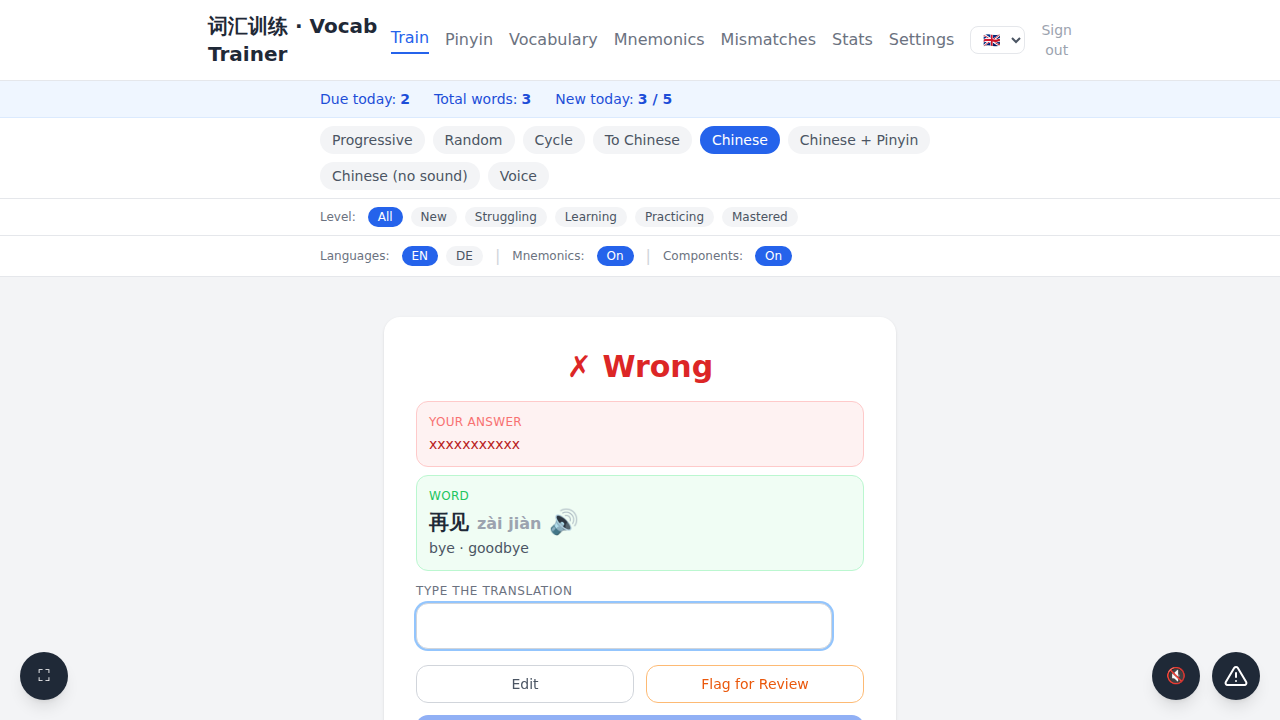
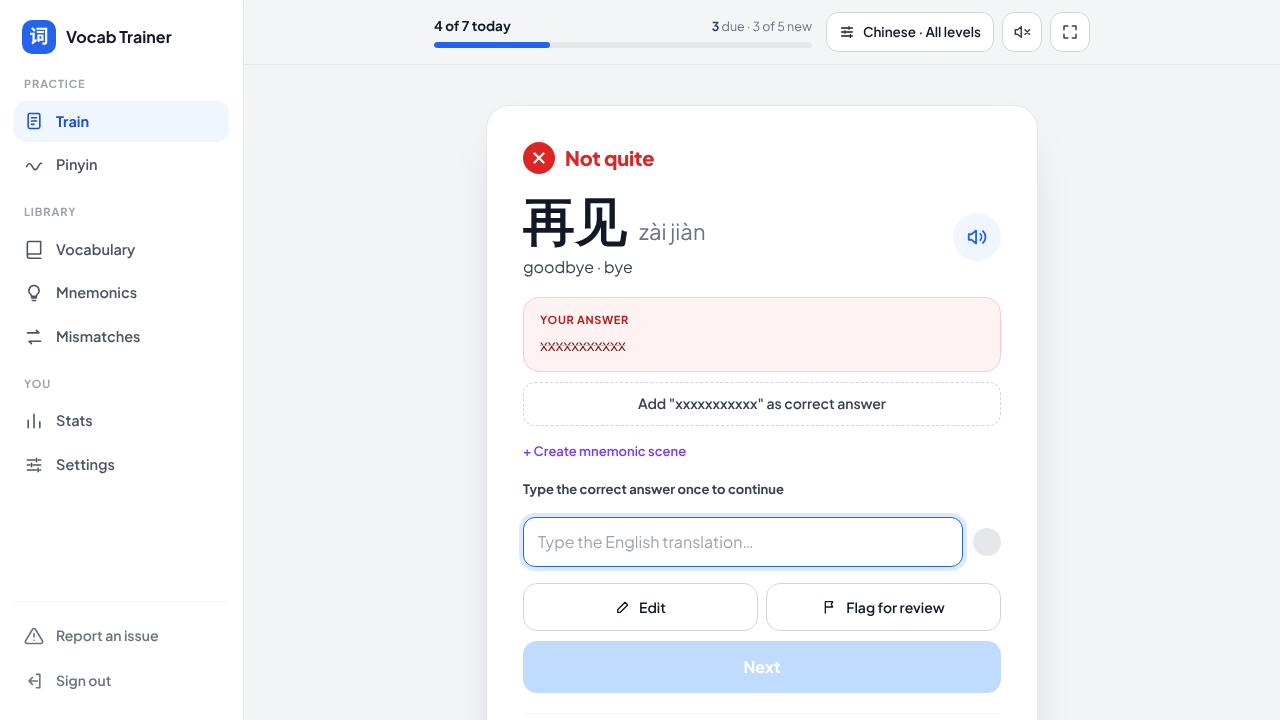
Show retype field hints as placeholders (#549)
The retype-on-wrong gate now puts "Type the Chinese…" and the
"Type the <language> translation…" text from #542 inside the inputs
instead of as labels above them.

Claude-Session: https://claude.ai/code/session_0169PKbCKpG1fpBBfipMrtzC

diff --git a/service/frontend/train-card.js b/service/frontend/train-card.js
@@ -443,20 +443,25 @@ async function loadNextCard(trackCurrent = false) {
 // Languages with a "Type the <language> translation…" placeholder (issue #542).
 const ANSWER_LANG_PLACEHOLDERS = ['en', 'de'];
 
+function translPlaceholderKey(answerLang) {
+  return ANSWER_LANG_PLACEHOLDERS.includes(answerLang) ? `card.placeholderTransl.${answerLang}` : 'card.placeholder';
+}
+
 function placeholderKeyForCard(cardType, mode, answerLang) {
   if (cardType === 'sentence') return 'card.placeholderSentence';
   if (!cardType && mode === 'transl_to_zh') return 'card.placeholderZh';
-  if ((!cardType || cardType === 'component') && ANSWER_LANG_PLACEHOLDERS.includes(answerLang)) {
-    return `card.placeholderTransl.${answerLang}`;
-  }
+  if (!cardType || cardType === 'component') return translPlaceholderKey(answerLang);
   return 'card.placeholder';
+}
+
+// Name the primary language if it is selected, else the first selected one.
+function currentAnswerLang() {
+  return orderLangsPrimaryFirst(selectedLangs, userPrimaryLang, userSecondaryLang)[0] || userPrimaryLang;
 }
 
 function showCard() {
   show('card-area');
-  // Name the primary language if it is selected, else the first selected one.
-  const answerLang = orderLangsPrimaryFirst(selectedLangs, userPrimaryLang, userSecondaryLang)[0] || userPrimaryLang;
-  $('answer-input').placeholder = t(placeholderKeyForCard(currentCard.card_type, currentCard.mode, answerLang));
+  $('answer-input').placeholder = t(placeholderKeyForCard(currentCard.card_type, currentCard.mode, currentAnswerLang()));
   // Prompt size: Hanzi prompts are larger, sentence prompts smaller.
   const promptEl = $('prompt-word');
   const zhPrompt = currentCard.card_type === 'component' ||

diff --git a/service/frontend/train-card.test.js b/service/frontend/train-card.test.js
@@ -9,14 +9,29 @@ import { describe, it, expect, vi, beforeEach, afterEach } from 'vitest';
 
 const ANSWER_LANG_PLACEHOLDERS = ['en', 'de'];
 
+function translPlaceholderKey(answerLang) {
+  return ANSWER_LANG_PLACEHOLDERS.includes(answerLang) ? `card.placeholderTransl.${answerLang}` : 'card.placeholder';
+}
+
 function placeholderKeyForCard(cardType, mode, answerLang) {
   if (cardType === 'sentence') return 'card.placeholderSentence';
   if (!cardType && mode === 'transl_to_zh') return 'card.placeholderZh';
-  if ((!cardType || cardType === 'component') && ANSWER_LANG_PLACEHOLDERS.includes(answerLang)) {
-    return `card.placeholderTransl.${answerLang}`;
-  }
+  if (!cardType || cardType === 'component') return translPlaceholderKey(answerLang);
   return 'card.placeholder';
 }
+
+// The retype-on-wrong meaning field uses the same text (issue #549).
+describe('translPlaceholderKey', () => {
+  it('names the answer language', () => {
+    expect(translPlaceholderKey('de')).toBe('card.placeholderTransl.de');
+    expect(translPlaceholderKey('en')).toBe('card.placeholderTransl.en');
+  });
+
+  it('falls back to the generic key for an unknown language', () => {
+    expect(translPlaceholderKey('fr')).toBe('card.placeholder');
+    expect(translPlaceholderKey(undefined)).toBe('card.placeholder');
+  });
+});
 
 describe('placeholderKeyForCard', () => {
   it('uses the sentence-specific placeholder key for sentence cards', () => {

diff --git a/service/frontend/train.html b/service/frontend/train.html
@@ -227,14 +227,12 @@
           <div id="wrong-retype-area" class="hidden tr-retype">
             <div class="tr-label" data-i18n="result.retypeTitle">Type the correct answer once to continue</div>
             <label id="wrong-retype-zh-group" class="tr-check-field">
-              <span class="tr-label-sm" data-i18n="newWord.typeZh">Type the Chinese</span>
               <span class="tr-check-row">
-                <input type="text" id="wrong-retype-zh-input" class="tr-input font-hanzi" autocomplete="off" spellcheck="false">
+                <input type="text" id="wrong-retype-zh-input" class="tr-input font-hanzi" autocomplete="off" spellcheck="false" placeholder="Type the Chinese…" data-i18n-placeholder="card.placeholderZh">
                 <span id="wrong-retype-zh-check" class="tr-check"></span>
               </span>
             </label>
             <label id="wrong-retype-trans-group" class="tr-check-field">
-              <span class="tr-label-sm" data-i18n="newWord.typeTrans">Type the meaning</span>
               <span class="tr-check-row">
                 <input type="text" id="wrong-retype-trans-input" class="tr-input" autocomplete="off">
                 <span id="wrong-retype-trans-check" class="tr-check"></span>

diff --git a/e2e/quiz.spec.js b/e2e/quiz.spec.js
@@ -1666,6 +1666,12 @@ test.describe('Quiz – retype on wrong answer', () => {
       await expect(page.locator('#wrong-retype-zh-group')).toBeVisible();
       await expect(page.locator('#wrong-retype-trans-group')).toBeVisible();
       await expect(page.locator('#next-btn')).toBeDisabled();
+      // Issue #549: the field hints sit inside the inputs as placeholders,
+      // not as labels above them. The meaning field names the answer language.
+      await expect(page.locator('#wrong-retype-zh-input')).toHaveAttribute('placeholder', 'Type the Chinese…');
+      await expect(page.locator('#wrong-retype-trans-input')).toHaveAttribute('placeholder', 'Type the English translation…');
+      await expect(page.locator('#wrong-retype-zh-group')).not.toContainText('Type the Chinese');
+      await expect(page.locator('#wrong-retype-trans-group')).not.toContainText('Type the meaning');
       await captureForPR(page, 'wrong-answer-retry-both-fields');
 
       // Typing a wrong word/translation must not unlock it.

diff --git a/service/frontend/app.css b/service/frontend/app.css
@@ -464,8 +464,7 @@ label.st-text { cursor: pointer; }
 .tr-check.is-ok { background: #16a34a; }
 .tr-check.is-bad { background: #f87171; }
 .tr-label { font-size: 13px; font-weight: 700; color: #374151; margin-bottom: 8px; }
-.tr-check-field .tr-label, .tr-check-field .tr-label-sm { margin-bottom: 0; }
-.tr-label-sm { font-size: 12.5px; font-weight: 600; color: #6b7280; }
+.tr-check-field .tr-label { margin-bottom: 0; }
 .tr-two-btns { margin-top: 22px; display: grid; grid-template-columns: 1fr 1.4fr; gap: 8px; }
 .tr-two-equal { grid-template-columns: 1fr 1fr; margin-top: 16px; }
 .tr-two-btns .ui-btn { min-height: 48px; border-radius: 14px; }

diff --git a/service/frontend/train-result.js b/service/frontend/train-result.js
@@ -366,6 +366,7 @@ function renderWordAnswerResult(result, answer) {
         wrongRetypeTarget = { zhText: result.zh_text, translations: mergeTranslationMaps(result.translations, result.translations_extra), requireZh, requireTrans };
         $('wrong-retype-zh-input').value = '';
         $('wrong-retype-trans-input').value = '';
+        $('wrong-retype-trans-input').placeholder = t(translPlaceholderKey(currentAnswerLang()));
         setCheckMark('wrong-retype-zh-check', '', false);
         setCheckMark('wrong-retype-trans-check', '', false);
         requireZh ? show('wrong-retype-zh-group') : hide('wrong-retype-zh-group');

diff --git a/README.md b/README.md
@@ -28,7 +28,7 @@ This is a self-hosted Chinese-English vocabulary trainer. It uses the SM-2 space
 - **Flexible answer matching.** Parenthesized segments are optional: `(das) Essen` accepts `Essen`. Fullwidth Chinese parentheses `（）` work the same way: `还（动词）` accepts `还`. Slash- or comma-separated alternatives are each valid: `Essen / Gericht` accepts `Essen` or `Gericht`, and `topic, item` accepts `topic` or `item`. Typing all slash-separated parts in any order also works: `Wohnzimmer / Schlafzimmer` accepts `Schlafzimmer / Wohnzimmer`. The same applies to mnemonic names on HMM cards.
 - **Wrong-answer review.** On a wrong answer, the app shows what you typed next to the correct Chinese text, pinyin, and translations. You can add your answer as an accepted translation with one click. In *Translation → Chinese* mode, the app also shows pinyin beside your typed Chinese answer, so you can see how it is pronounced. If you have two active learning languages (primary and secondary), a language picker lets you choose which language the new translation belongs to. The picker defaults to your primary language.
 - **Accept as correct.** If a wrong answer was a typo, click "Accept as correct" to restore your pre-answer SM-2 progress. The app then counts the attempt as correct, with no penalty. You can configure this behavior in Settings: never, on 1-character typos (the default), or always.
-- **Retype on wrong answer.** This optional 3-way setting is off by default, in Settings → Training Mode → Wrong Answer Retry: **Off** continues immediately; **Only what was tested** requires retyping only the field(s) the card's direction actually asked for (e.g. just the translation for a Chinese → translation card, just the Chinese word for a translation → Chinese card); **Chinese and translation** always requires both, regardless of direction. Whichever field(s) are required, the "Next" button stays disabled until they check out. The "Accept as correct" and "Add as translation" shortcuts stay available alongside the retype fields and, like "Next" when the gate is off, still advance straight to the next card when clicked — accepting the answer already confirms it, so no retype is required in that case. This mirrors the same required-retype pattern used for the new-word introduction screen.
+- **Retype on wrong answer.** This optional 3-way setting is off by default, in Settings → Training Mode → Wrong Answer Retry: **Off** continues immediately; **Only what was tested** requires retyping only the field(s) the card's direction actually asked for (e.g. just the translation for a Chinese → translation card, just the Chinese word for a translation → Chinese card); **Chinese and translation** always requires both, regardless of direction. Whichever field(s) are required, the "Next" button stays disabled until they check out. The fields show their hint inside the input ("Type the Chinese…", "Type the German translation…"), not as a label above it. The "Accept as correct" and "Add as translation" shortcuts stay available alongside the retype fields and, like "Next" when the gate is off, still advance straight to the next card when clicked — accepting the answer already confirms it, so no retype is required in that case. This mirrors the same required-retype pattern used for the new-word introduction screen.
 - **Training stats.** The app tracks daily progress: attempts, mistakes, accuracy, words known, new words learned, and your best correct streak. The `/stats` page shows a Chart.js bar or line chart of your full history, and a table of the last 14 days.
 - **Word-level statistics.** The `/stats` page has four tabs (Words, Pinyin, Components, Mnemonics). The Words tab starts with four tiles: answers today (with mistakes), 14-day accuracy (with the change vs the previous 14 days), words in training (with the count due today) and the day streak. When gamification is off, the last tile shows the training time of the last 14 days. Below the tiles: the training history chart, **Levels** (a stacked bar and one row per level, including an **Unseen** row for words you have not practiced yet), the words due in the next days, your hardest and most-practiced words, a **Level history** chart and a folded "Last 14 days" table. Levels and due dates can be filtered by tag.
 - **Due date distribution.** The `/stats` page shows a bar chart of how many words are due on each day over the next 30 days. Tag filter chips let you narrow the view to specific word groups.
